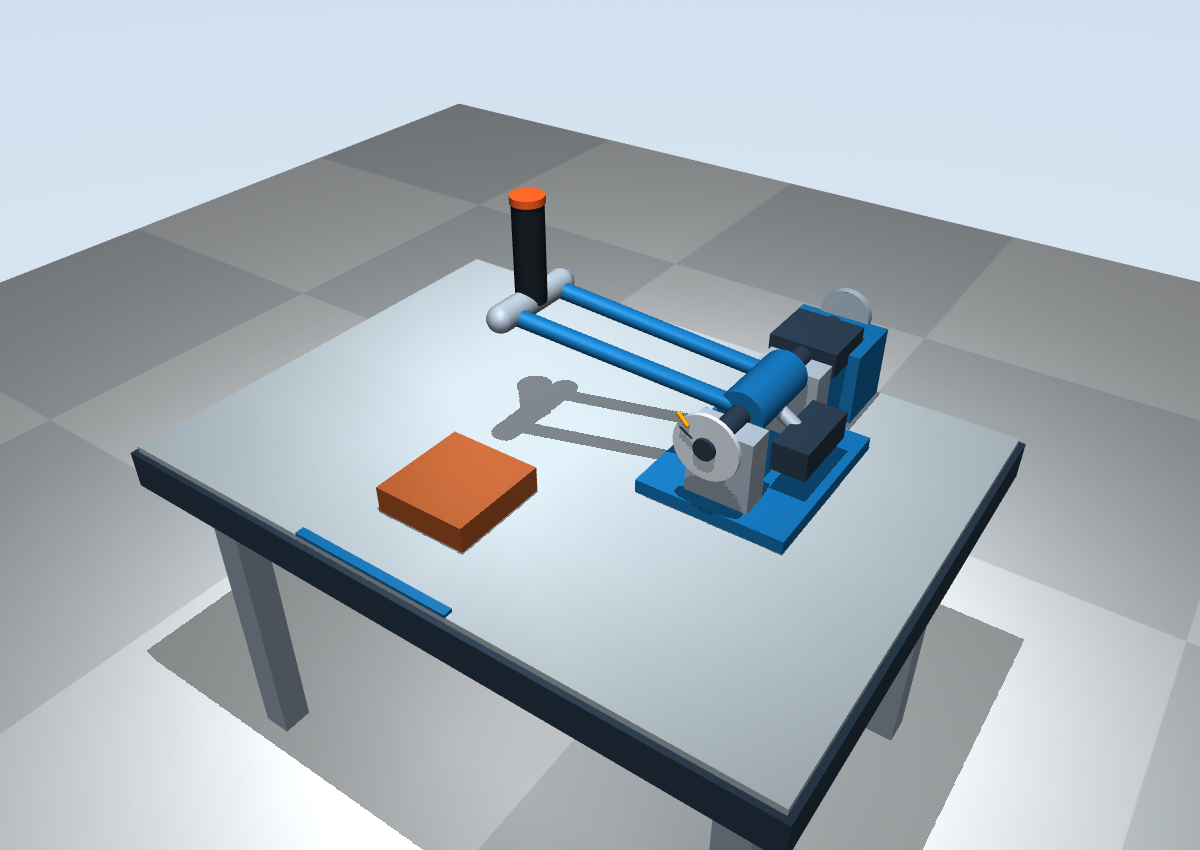
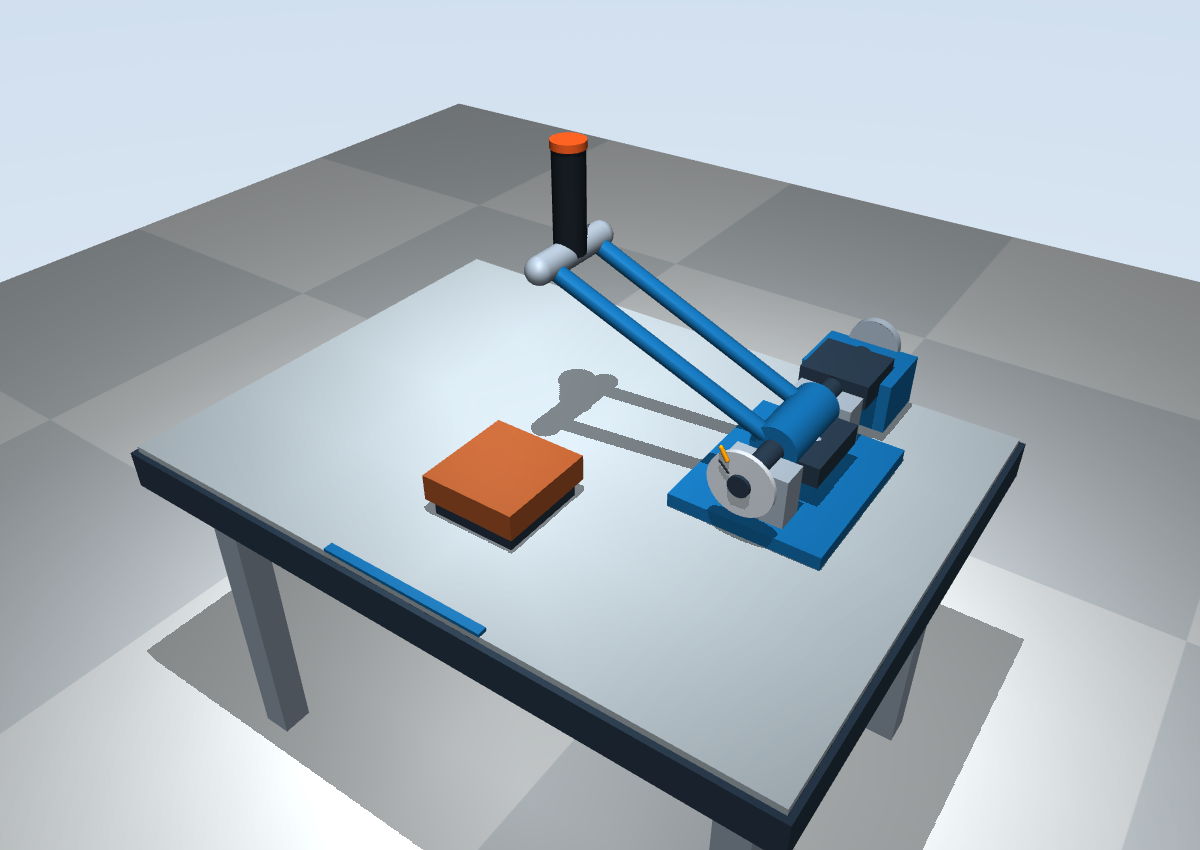
Restore raised double-rod zero pose with same-camera comparisons

Changed region(s): [[0.3083, 0.1529, 0.7708, 0.6729], [0.37, 0.7035, 0.4008, 0.7647], [0.2467, 0.6118, 0.2775, 0.6424]]

diff --git a/sim/test_mechanics.py b/sim/test_mechanics.py
@@ -22,8 +22,8 @@ class MechanicsTests(unittest.TestCase):
             d.qpos[0] = angle
             mujoco.mj_forward(m, d)
             r = d.geom('handle').xpos - d.xanchor[0]
-            self.assertAlmostEqual(r[1], -0.14)
-            self.assertAlmostEqual(np.linalg.norm(r[[0, 2]]), np.sqrt(0.34176015**2 + 0.20**2))
+            self.assertAlmostEqual(r[1], -0.12)
+            self.assertAlmostEqual(np.linalg.norm(r[[0, 2]]), np.hypot(0.34, 0.33))
             self.assertGreater(d.geom('handle').xpos[2], 0.15)
             np.testing.assert_allclose(d.xaxis[0], [0, 1, 0], atol=1e-12)
         d.qpos[0] = 0
@@ -50,16 +50,18 @@ class MechanicsTests(unittest.TestCase):
         expected = np.array([np.cos(0.2), 0, np.sin(0.2), 0])
         np.testing.assert_allclose(self.model.body('boundary_reference').quat, expected)
 
-    def test_initial_pose_and_unchanged_rod_length(self):
+    def test_initial_raised_pose_and_rod_length(self):
         m, d = self.model, self.data
         mujoco.mj_forward(m, d)
-        np.testing.assert_allclose(d.xanchor[0], [0.28, 0.10, 0.20])
-        np.testing.assert_allclose(d.geom('handle').xpos, [-0.06176015, -0.04, 0.40])
+        np.testing.assert_allclose(d.xanchor[0], [0.34, 0.10, 0.16])
+        np.testing.assert_allclose(d.geom('handle').xpos, [0.0, -0.02, 0.49])
+        rod_axis = d.geom('arm_left').xmat.reshape(3, 3)[:, 2]
+        self.assertGreater(np.arctan2(abs(rod_axis[2]), abs(rod_axis[0])), np.deg2rad(34))
         delta = d.geom('handle').xpos - d.geom('elbow_pad').xpos
-        self.assertAlmostEqual(np.linalg.norm(delta[:2]), 0.20)
-        self.assertAlmostEqual(delta[2], 0.325)
+        self.assertAlmostEqual(np.linalg.norm(delta[:2]), 0.18)
+        self.assertAlmostEqual(delta[2], 0.39)
         for name in ('arm_left', 'arm_right'):
-            self.assertAlmostEqual(2 * m.geom(name).size[1], np.hypot(0.32, 0.22))
+            self.assertAlmostEqual(2 * m.geom(name).size[1], np.sqrt(0.34**2 + 0.12**2 + 0.25**2))
 
     def test_dial_boundary_matches_grip_radial_direction(self):
         m, d = self.model, self.data

diff --git a/docs/layout-raised-zero.md b/docs/layout-raised-zero.md
@@ -1,0 +1,54 @@
+# 抬升零位修正：已有草图、V0.3 与新版（2026-11-08）
+
+## 依据及对照限制
+
+仓库仍只有 `docs/references/armwrestling_layout.svg` 与说明，没有原始机械参考图或最终 CAD。本次依照用户明确提出的“恢复约 34.51° 或更合适的明显上倾姿态”要求，采用 36.33° 的侧视投影抬升角。下图左侧是已有简化草图的侧向局部，不是未提供的原始机械图；草图不用于读取角度、尺寸或配合精度。
+
+左：已有草图；中：V0.3 初始姿态；右：新版初始姿态。侧视中两根杆因投影重叠，需结合斜俯视观察。
+
+![草图、V0.3、新版](comparisons/sketch-v03-raised.png)
+
+## 同相机、同零位对照
+
+左列为提交 `1bcb69f` 的 V0.3，右列为本次修改。上排斜俯视、下排侧视，全部为 θ=0。斜俯视沿用 125°/-35°，侧视沿用 90°/-5°，相机焦点和距离也完全相同，没有用换镜头制造相似效果。
+
+![V0.3 与新版](comparisons/raised-before-after.png)
+
+## 实际几何变化
+
+单位 m。Y 正向朝桌后、Z 向上；用户位于负 Y 桌边。
+
+| 项目 | V0.3 | 新版 |
+| --- | --- | --- |
+| 主轴基准点 | (0.2800, 0.1000, 0.2000) | (0.3400, 0.1000, 0.1600) |
+| 两根杆的共同端点偏置 | (-0.34176015, -0.14, 0.12) | (-0.34, -0.12, 0.25) |
+| 每根杆中心线长 | 0.388330 | 0.438748 |
+| 杆侧视 XZ 抬升角 | 19.35° | 36.33° |
+| 握把中心 | (-0.06176015, -0.04, 0.40) | (0, -0.02, 0.49) |
+| 肘垫中心 | (-0.06176015, -0.24, 0.075) | (0, -0.20, 0.10) |
+| 握把—肘垫水平距离 | 0.20 | 0.18 |
+| 握把—肘垫中心高度差 | 0.325 | 0.390 |
+| 握把中心高于肘垫顶面 | 0.302 | 0.367 |
+| 握把圆弧半径 | 0.395980 | 0.473814 |
+| 零位握把与世界 Z 轴夹角 | 0° | 0° |
+
+主轴和后部模块整体右移 0.06 m，主轴降低 0.04 m，轴承座和制动壳体同步降低。双杆端部抬升从 0.12 m 增到 0.25 m，同时保留 0.12 m 的前伸；没有为了靠近肘垫而压低摆臂。握把实际升高 0.09 m，肘垫只抬高 0.025 m，并有与桌面相接的独立底座。
+
+这些是布局示意值，不是成人适配结论。手从肘垫区域向上前伸到握把的意图更清楚，但是否适合具体用户仍需人体尺寸和样机验证。
+
+## 零位、轨迹与自由空间边界
+
+- 初始关节角仍为 θ=0，控制零位 θ0=0；上倾角写在杆的局部几何中，没有把关节初始化到一个已经越过边界的角度。
+- 主轴仍沿 +Y。握把中心轨迹为 `p(θ)=(0.34,0.10,0.16)+Ry(θ)(-0.34,-0.12,0.33)`，在 `y=-0.02` 的竖直平面内走圆弧。
+- 默认边界 `qb=0.25 rad` 是从本次零位继续转动的关节角，边界处握把中心约 `(0.0922,-0.0200,0.5639) m`。
+- 轴端深色刻度按新的零位径向重画，黄色刻度按参数旋转；测试确认黄色径向和 θ=qb 时的握把径向一致。
+- 握把只在初始姿态竖直，运动中仍随双杆倾斜。没有新增保姿关节、主动执行器或动画。
+
+## 验证
+
+- 16 项测试通过：原控制律测试、零输入无漂移、圆弧、双杆/轴线、抬升零位和边界方向等。
+- 实际查看器从斜俯视、侧视、俯视各运行 360 步，施加正向、释放和反向用户力矩；每视角 240 步出现非零制动箭头，正常关闭。
+- 对照图由 MuJoCo Renderer 使用同一状态和相机生成；主图都为零位，`docs/previews/braking.png` 另示运动中制动。
+- V0.3 与新版同输入积分 700 步，关节角度和速度最大差为 0。因为理想配平与显式转动惯量不变，角动力学一致；握把圆弧半径和空间轨迹确实改变。
+- 保留理想被动配平：总质心位于主轴，无电机、无 gravcomp、无补偿力矩。这不证明实物已完成配重设计，也不表示装饰外形能导出这些惯性参数。
+- `sim/control.py` 与 `real/` 未修改。

diff --git a/README.md b/README.md
@@ -1,4 +1,4 @@
-# armwrestling — MuJoCo 机械布局 V0.3
+# armwrestling — MuJoCo 抬升零位模型（V0.3 后续修正）
 
 单自由度被动力反馈扳手腕项目。当前 `sim/` 验证自由空间阻力控制；`real/` 只预留实机软件。
 
@@ -44,13 +44,15 @@ cd /home/lyf/armwrestling
 已阅读 [资料说明](docs/references/README.md) 和 [简化草图](docs/references/armwrestling_layout.svg)。原始机械图没有提供；用户于 2026-11-07 补充说明目前没有具体图纸，允许按成人手臂的大致姿态设计。因此下述布局是草图支持下的**可运行近似**，不是对原始 CAD 的核对结论，也不是人体适配或加工尺寸。
 
 - 坐标：Z 向上，用户坐在桌面 `y < -0.45 m` 一侧，桌前蓝色短条表示用户位置。
-- 橙棕色肘垫中心 `(-0.0618, -0.24, 0.075) m`；初始握把中心 `(-0.0618, -0.04, 0.40) m`，手从肘垫向后上方伸到握把。
-- 水平主轴沿 **+Y**，穿过 `(0.28, 0.10, 0.20) m`，由前后两个轴承支座承托。后方保留传动护罩与磁粉制动器外壳。
-- 两根蓝色长杆平行安装，中心间距 0.11 m，每根中心线长约 0.388 m，由主轴轮毂连接到握把端横梁。它们与横梁构成同一个刚性摆臂，只有一个转动自由度；没有擅自增加四连杆铰链。
-- 握把初始竖直，摆动中随双杆一起倾斜。握把中心到主轴的垂距约 0.396 m，绕主轴在 `y=-0.04 m` 的竖直平面内走圆弧；不会在桌面内水平扫动。
-- 正角度按 +Y 轴右手定则定义。初始握把偏置 `r0=(-0.34176015,-0.14,0.20) m`，轨迹为 `p(θ)=p_axis + Ry(θ)r0`。限位范围 `[-0.55,1.2] rad` 仅用于这个示意布局。
+- 橙棕色肘垫中心 `(0, -0.20, 0.10) m`；初始握把中心 `(0, -0.02, 0.49) m`，手从肘垫向后上方伸到握把。
+- 水平主轴沿 **+Y**，穿过 `(0.34, 0.10, 0.16) m`，由前后两个轴承支座承托。后方保留传动护罩与磁粉制动器外壳。
+- 两根蓝色长杆平行安装，中心间距 0.11 m，每根中心线长约 0.439 m，由主轴轮毂连接到握把端横梁。它们与横梁构成同一个刚性摆臂，只有一个转动自由度；没有擅自增加四连杆铰链。
+- 握把初始竖直，摆动中随双杆一起倾斜。握把中心到主轴的垂距约 0.474 m，绕主轴在 `y=-0.02 m` 的竖直平面内走圆弧；不会在桌面内水平扫动。
+- 正角度按 +Y 轴右手定则定义。初始握把偏置 `r0=(-0.34,-0.12,0.33) m`，轨迹为 `p(θ)=p_axis + Ry(θ)r0`。限位范围 `[-0.55,1.2] rad` 仅用于这个示意布局。
 
-杆长保持约 0.388 m，通过端部向前偏移 0.14 m、抬升从 0.22 m 降为 0.12 m，形成右后主轴到左前握把的斜向长摆臂。零位握把到肘垫中心的水平距离为 0.20 m、高度差为 0.325 m。完整的新旧坐标、轨迹与检查记录见 [V0.3 布局对照](docs/layout-v03.md)。
+双杆初始侧视抬升角从 V0.3 的 19.35° 恢复到 36.33°，端部相对主轴抬升 0.25 m、前伸 0.12 m。主轴靠右且降低，握把升高，而非压低摆臂来靠近肘垫。肘垫独立抬高并增加底座；零位握把与肘垫中心水平距离 0.18 m、高度差 0.39 m。
+
+[本次完整对照](docs/layout-raised-zero.md) 包含已有草图、V0.3、新版的图像，以及同一相机/同一零位的斜俯视和侧视比较。原始图仍未提供，不能把已有草图称作原始 CAD。历史 [V0.3 对照](docs/layout-v03.md) 保留记录，当前尺寸以本节和本次对照为准。
 
 默认自由相机采用方位 125°、俯角 35°；已比较同一姿态下的三个方位。
 

diff --git a/TASKS.md b/TASKS.md
@@ -67,3 +67,14 @@
 - [x] 主三视图改为 θ=0 的同一姿态，新增 `braking.png` 单独展示运动制动状态；初始竖直不等于运动中保持竖直。
 - [x] 控制律、单自由度、惯量及理想被动配平不变，`real/` 未修改。
 - 未解决项仍包括真实 CAD、握把被动连接形式、实际重力配平、人体适配与碰撞保护；不因外形改善宣称这些已验证。
+
+## 抬升零位重新调整（2026-11-08）
+
+- [x] 按用户纠正，撤回 V0.3 过低的 19.35° 抬升，恢复为 36.33°；杆长改为约 0.439 m，保持双杆斜向上、向左前伸出的结构。
+- [x] 主轴右移 0.06 m、降低 0.04 m，握把升高 0.09 m；肘垫独立抬高 0.025 m 并增加底座。
+- [x] 默认相机完全沿用 V0.3，用同镜头、同零位斜俯视和侧视对照说明真实几何变化。
+- [x] 保留已有草图/V0.3/新版的对照图；明确原始机械图原件仍不可用，未伪称已与其核对。
+- [x] 零位仍是 θ=0、θ0=0，黄色边界和深色零位刻度按新径向更新；新增/调整姿态约束不降低控制目标。
+- [x] 16 项测试通过；三个查看器视角各实际运行 360 步（正向/释放/反向），正常退出。700 步新旧角度/速度对照最大差为 0。
+- [x] README 和 `docs/layout-raised-zero.md` 更新坐标、圆弧、边界与局限；理想被动配平不代表真实配重完成。
+- [x] `sim/control.py`、自由空间参数、单自由度和 `real/` 保持原设置。
